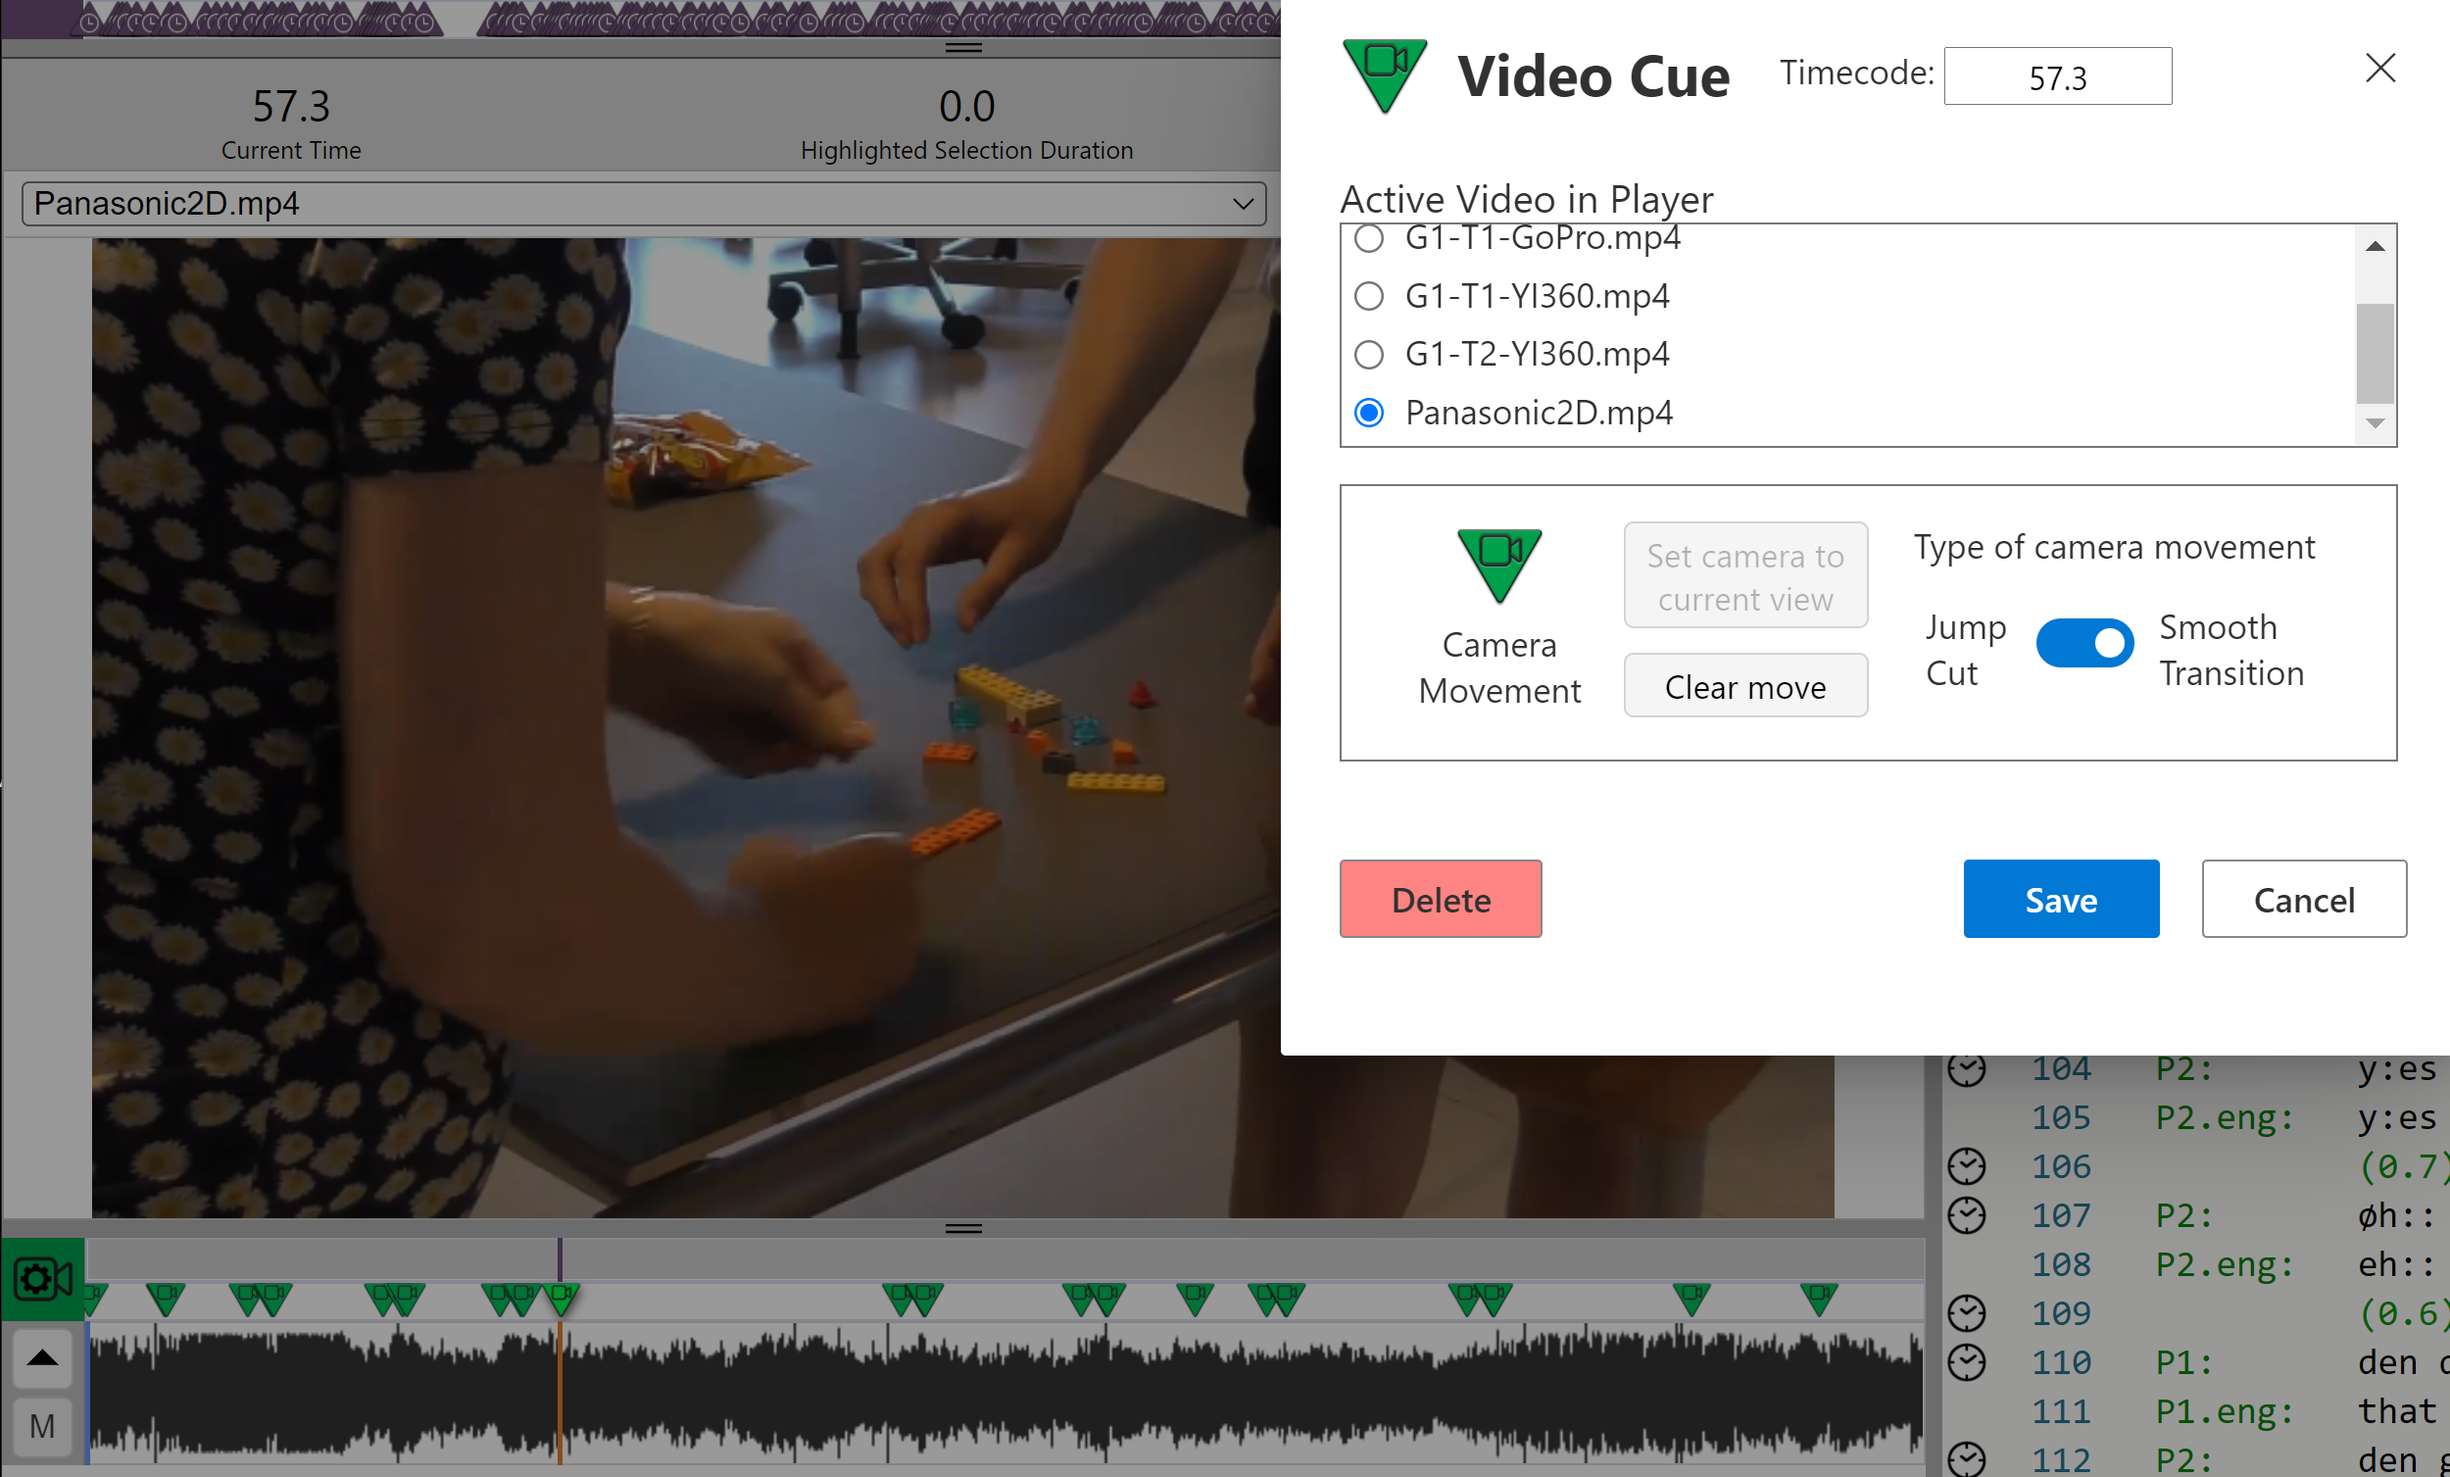
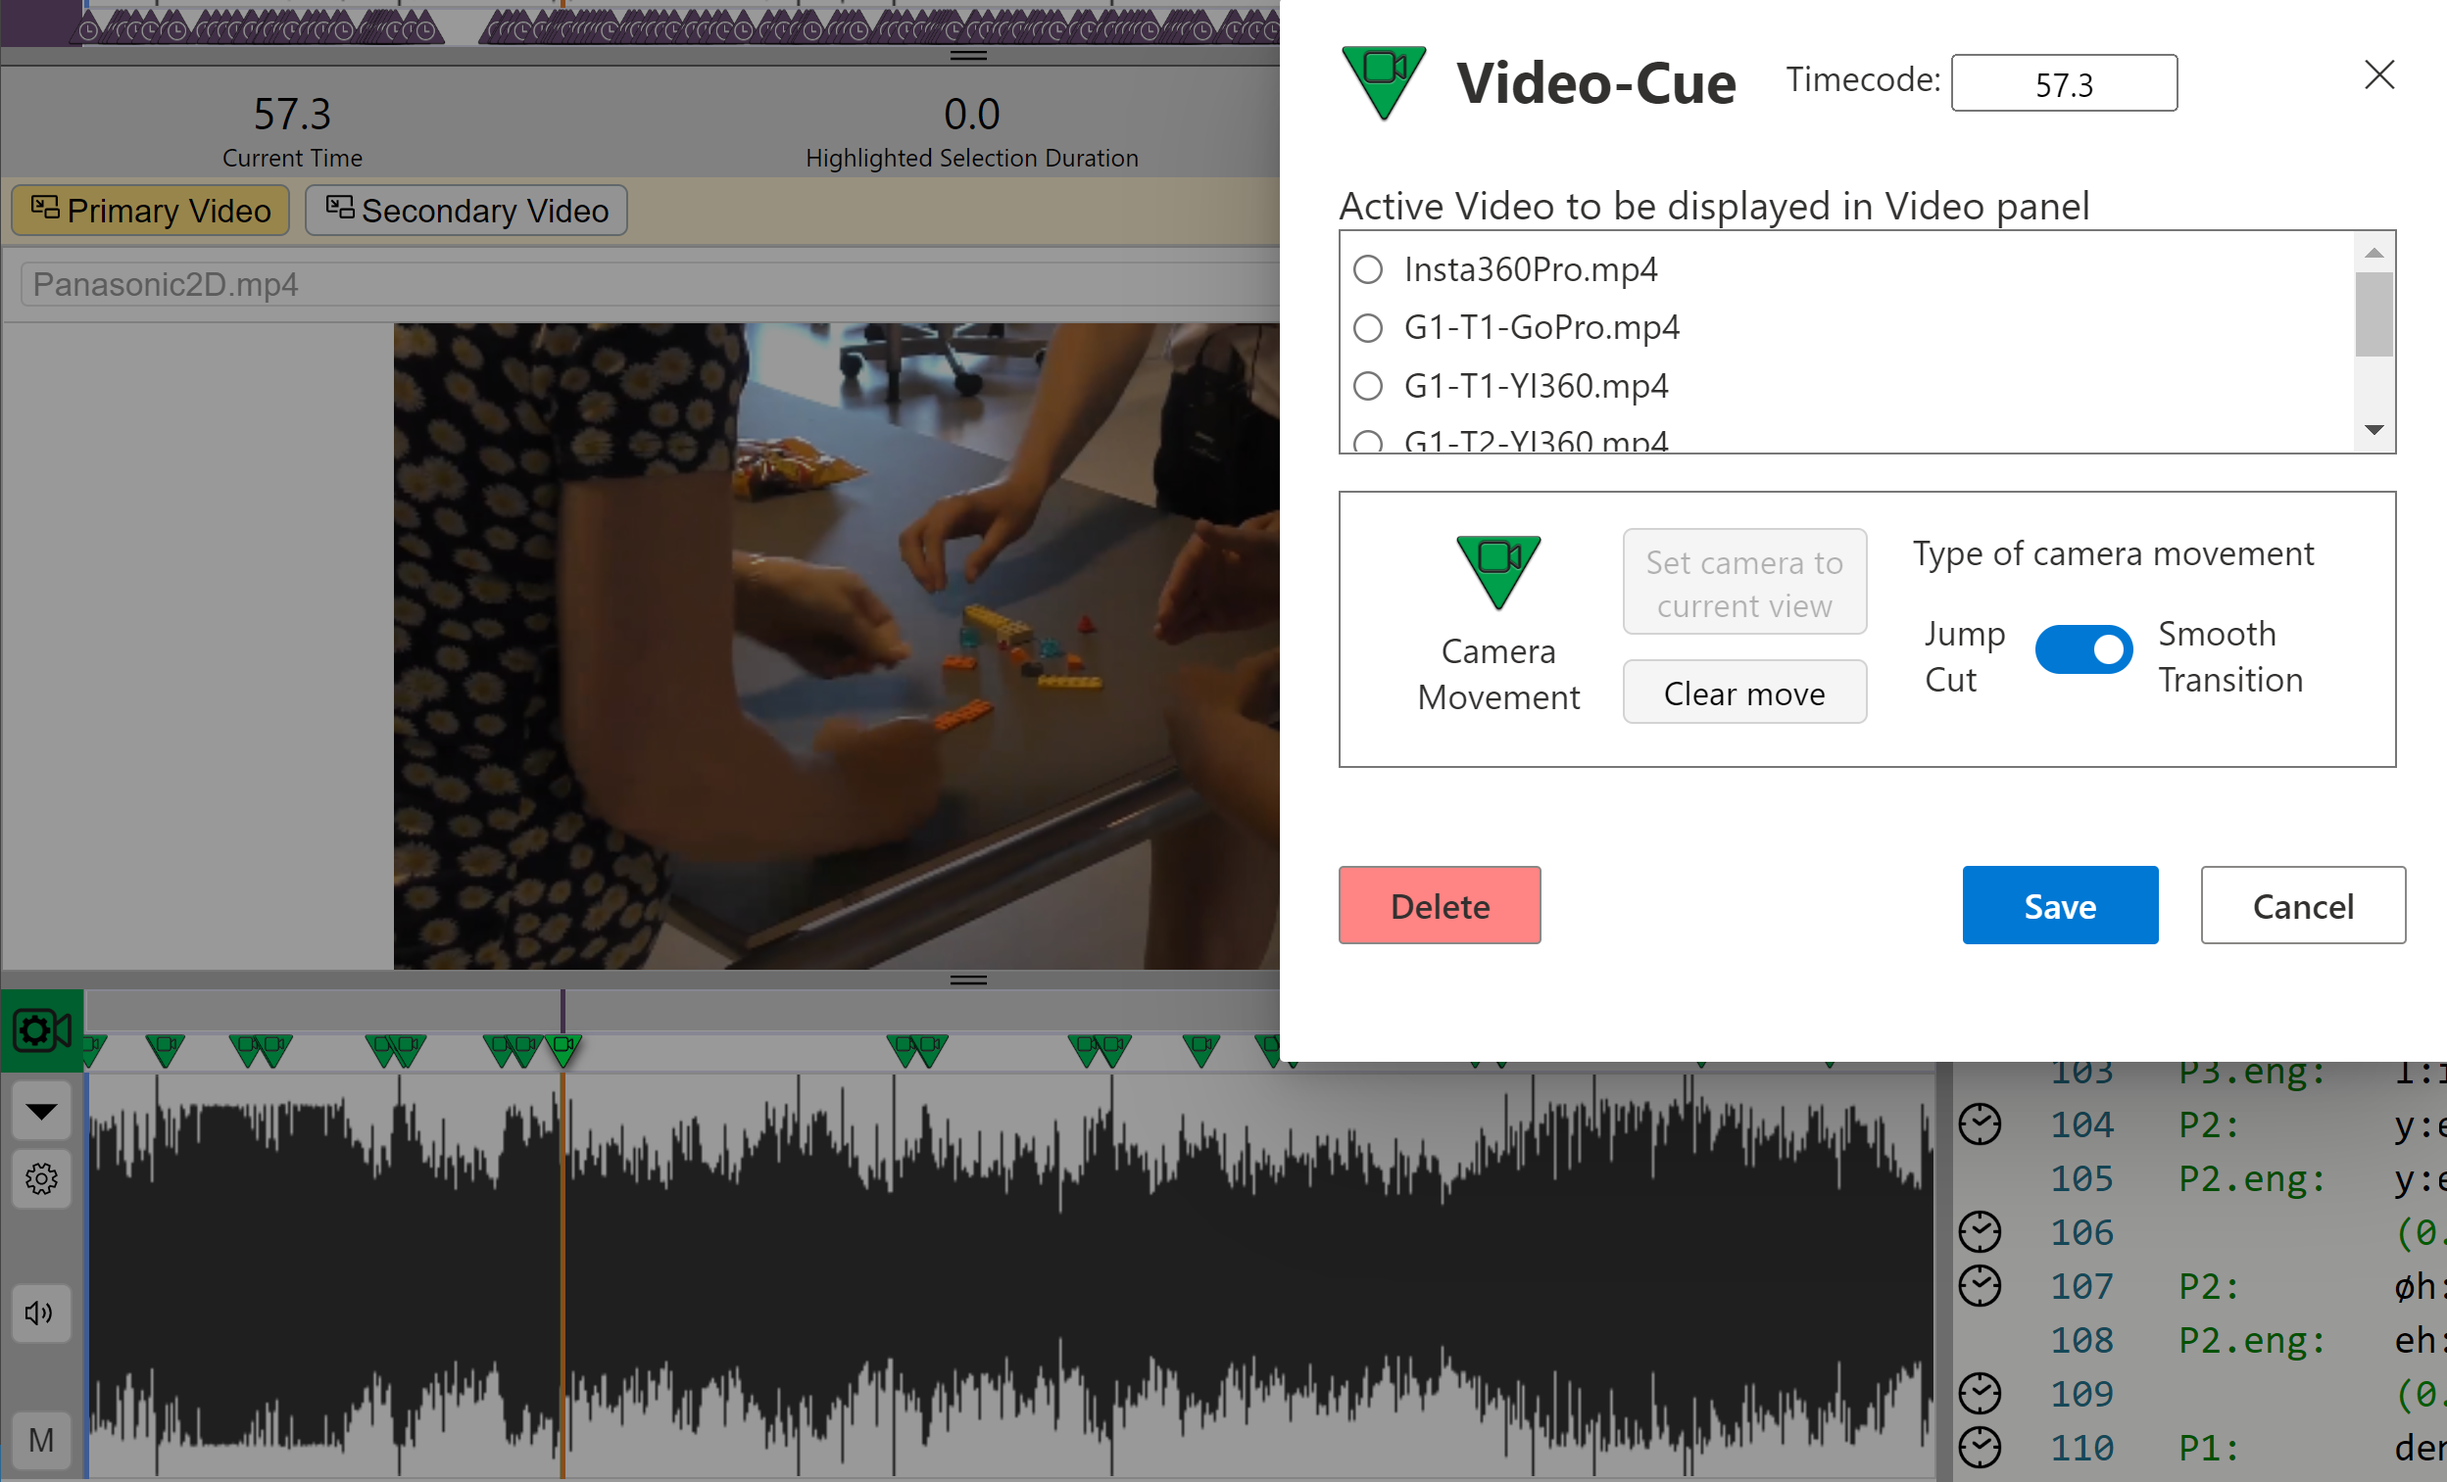
Add images to Video-cues and revise text

diff --git a/cues.md b/cues.md
@@ -14,9 +14,11 @@ Video-cues have no connection to the Editor, and they are managed on their own t
 
 ### Adding video-cues
 
-1. Open the [media timeline](media.md#media) for the specific video source that is to be cued.
+[![Video-cues](images/cues/video-cue-add.png)](images/cues/video-cue-add.png)
+
+1. Open the [video-cue timeline](media.md#media) for the specific video source that is to be cued in the [Primary video panel](video.md).
 1. Play the video and pause at the point to be video-cued.
-1. Adjust the view in the [primary video panel](video.md).
+1. Adjust the view in the [Primary video panel](video.md).
 1. Enter a video-cue by clicking on the `ADD VIDEO-CUE` button on the left side of the media timeline.
     - Assign the video-cue to the relevant video media source.
     - In video-cue options, select a _jump cut_ (immediate transition between two views) or a _smooth transition_ (a smooth pan between two views) for the video-cue.
@@ -30,18 +32,22 @@ Video-cues have no connection to the Editor, and they are managed on their own t
 
 There are two ways to edit a video-cue:
 
-1. Select the desired video-cue on the media timeline, then either press the `MODIFY VIDEO-CUE` button.
-Using this method means that the viewport should be changed after selecting the video-cue but before pressing the `MODIFY VIDEO-CUE` button, otherwise one cannot change the video-cue to match the selected viewport.
-1. Or just right click on the video-cue in the relevant timeline.
+1. Select the desired video-cue on the media timeline, then press the `MODIFY VIDEO-CUE` button.
+
+[![Video-cues](images/cues/video-cue-edit2.png)](images/cues/video-cue-edit2.png)
+
+- Using this method means that the viewport should be changed after selecting the video-cue but before pressing the `MODIFY VIDEO-CUE` button, otherwise one cannot change the video-cue to match the selected viewport.
+
+2. Or just right click on the video-cue in the relevant timeline.
 This can be useful when playing the video in the relevant video-cue, changing the viewport (no matter what the timecode), and then right clicking on the relevant video-cue.
 The video-cue can then be updated with the current viewport in the [Primary Video panel](video.md).
 
 #### What can be edited?
 
-- If a viewport has been changed, then the `Set camera to current view` button will be active (otherwise it will be greyed out).
+- If a viewport in the Primary video panel has been changed, then the `Set camera to current view` button will be active (otherwise it will be greyed out).
 Clicking it will change the viewport for the selected video for the current video-cue.
 - Video-cues can be deleted.
-    - Select the video-cue, pen the video-cue panel, and choose `Delete`.
+    - Select the video-cue, open the video-cue panel, and choose `Delete`.
 - The [Primary and Secondary Video panels](video.md) can be independently locked to the bookmarked video-cue.
     - On each video view, click on the video-cue lock button.
     - The primary video panel is locked to follow video-cues by default; the secondary video panel is set to save viewport by default.
